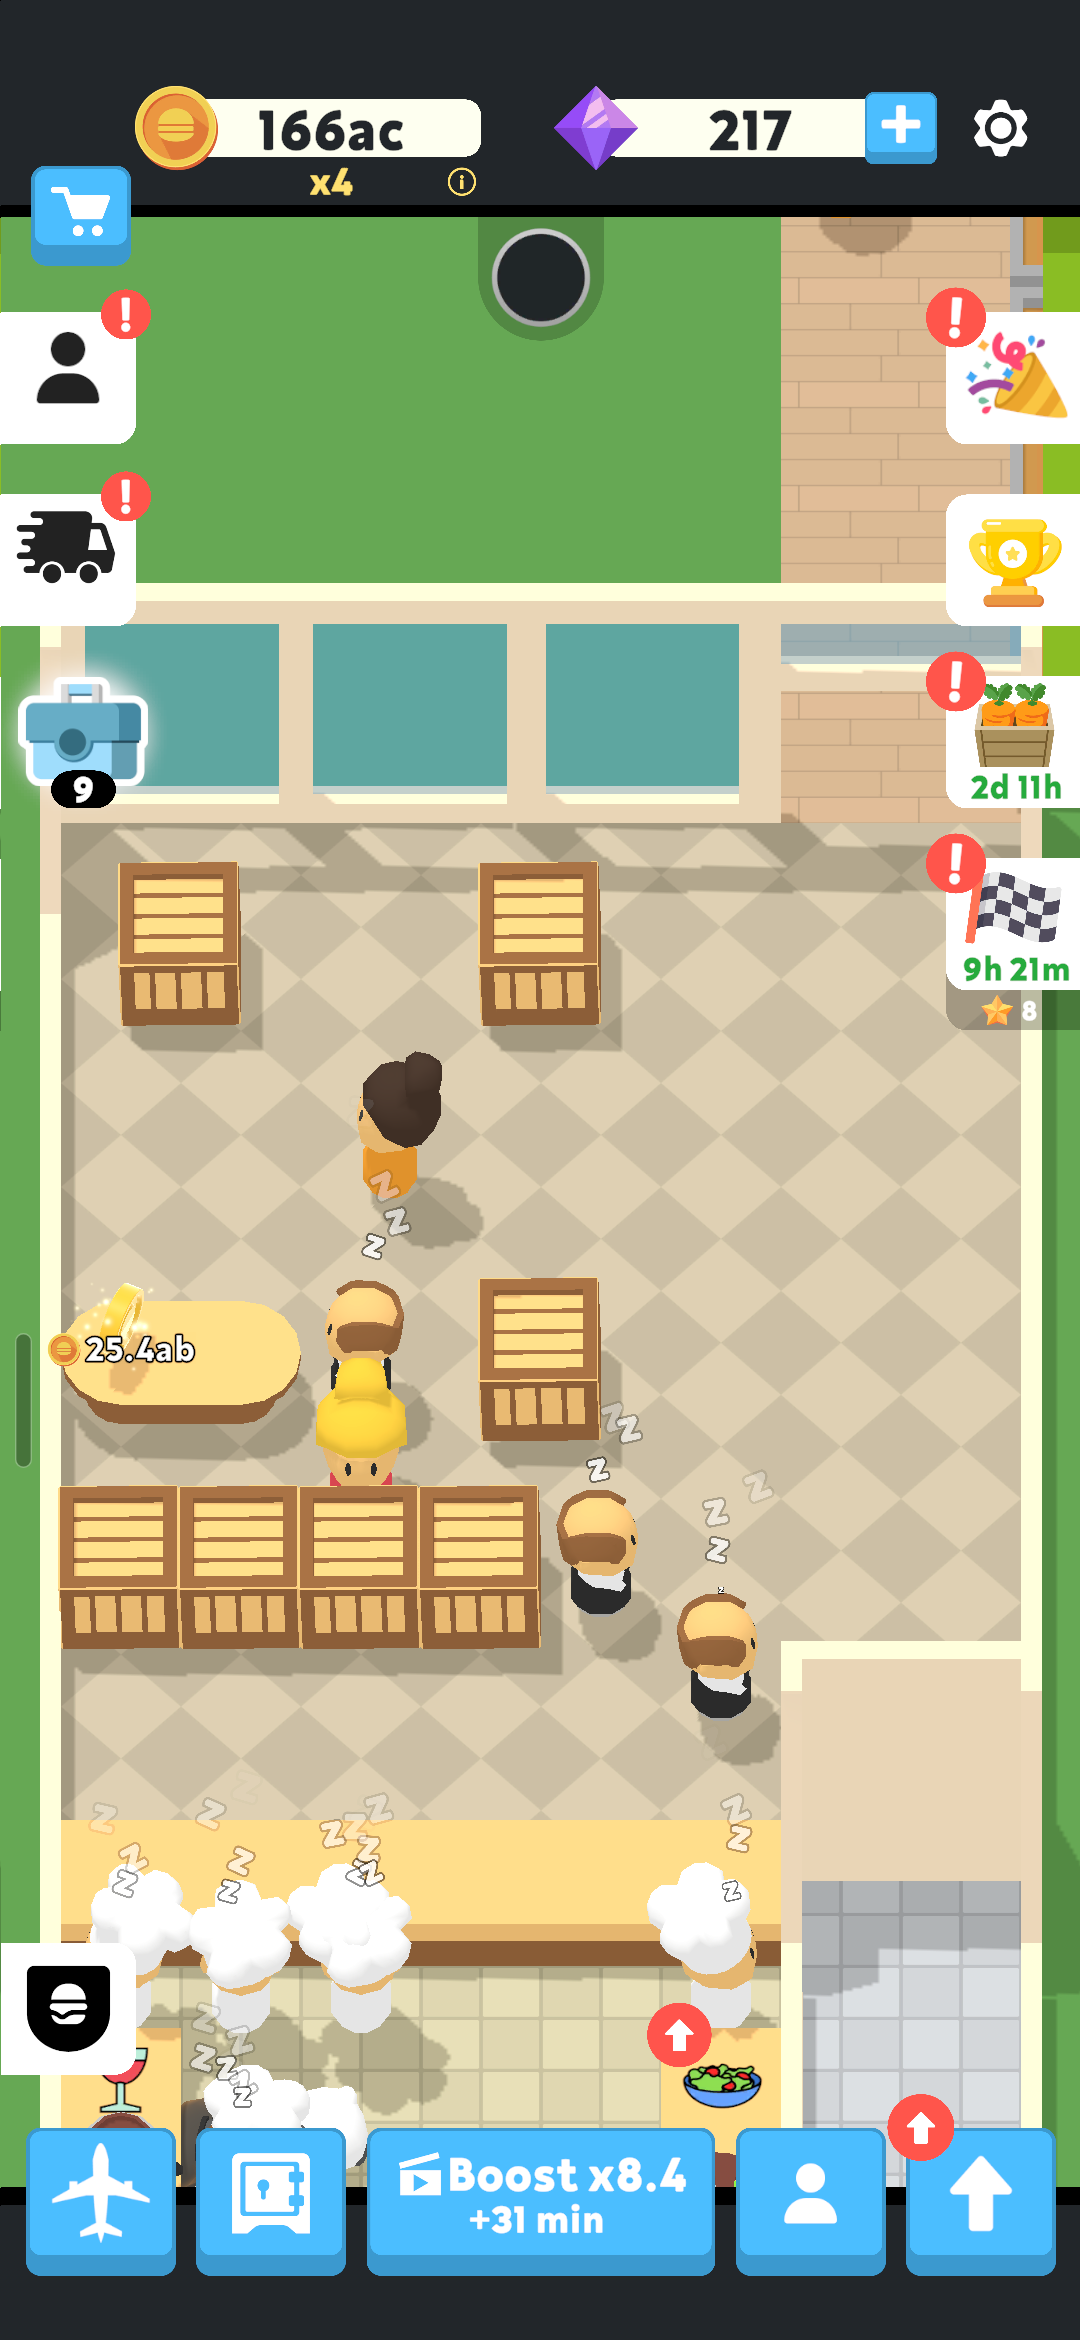
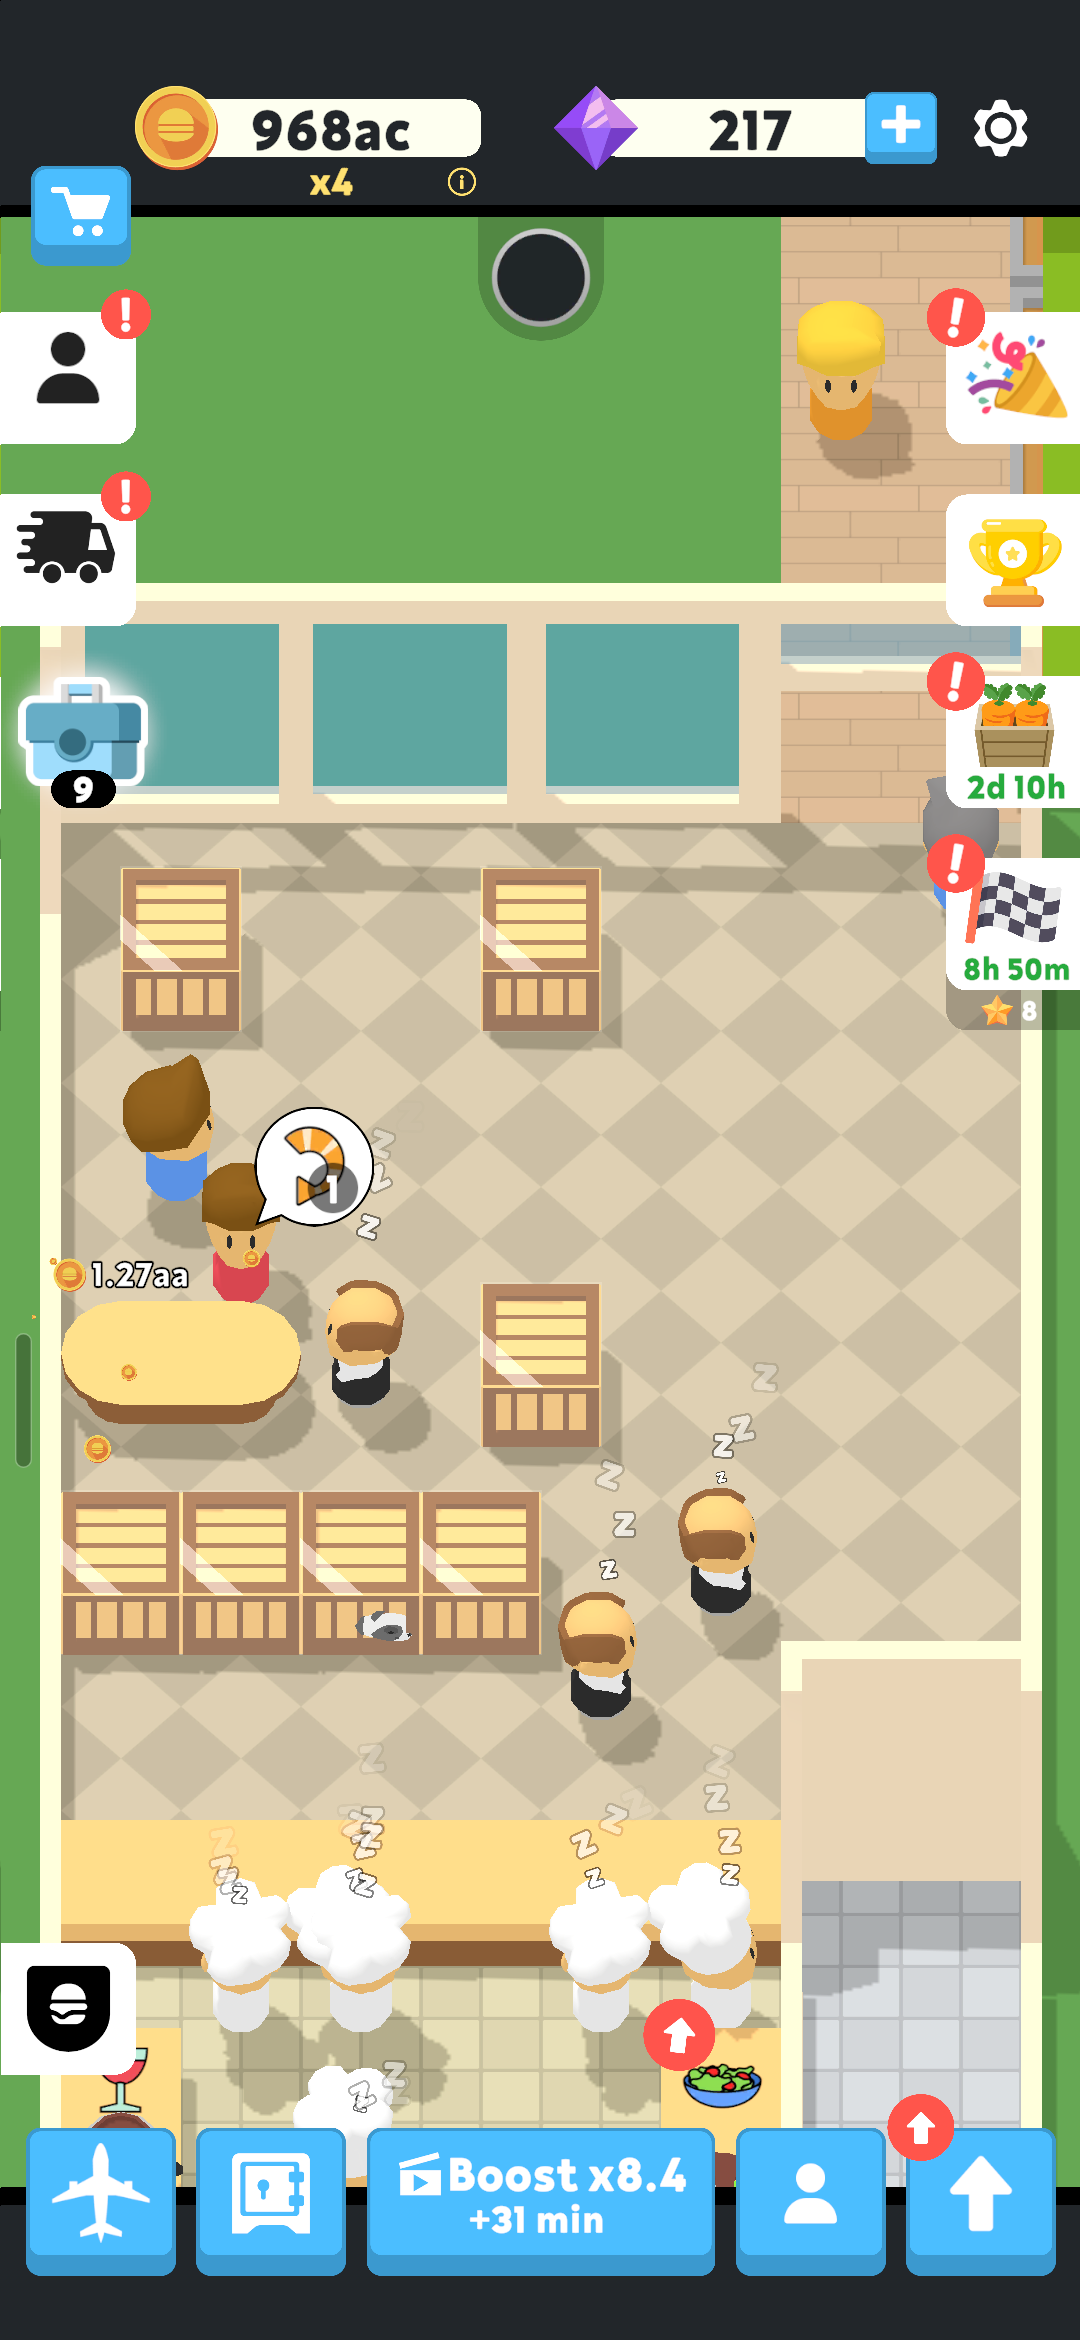
Try blur

diff --git a/modules/ImageProcess.py b/modules/ImageProcess.py
@@ -75,6 +75,11 @@ def find_points_match_template(
             return False if check else []
         
         w, h = template.shape[1], template.shape[0]
+
+        # Blur Gaussian
+        #kernel_size = (3, 3) 
+        #img = cv2.GaussianBlur(img, kernel_size, sigmaX=0)
+        #template = cv2.GaussianBlur(template, kernel_size, sigmaX=0)
         
         # Perform template matching
         res = cv2.matchTemplate(img, template, cv2.TM_CCOEFF_NORMED)
@@ -86,16 +91,26 @@ def find_points_match_template(
         if check:
             return len(loc[0]) > 0
         
+        img2 = img.copy()
         # Calculate center points
         points = []
         for pt in zip(*loc[::-1]):
             center_x = pt[0] + w // 2
             center_y = pt[1] + h // 2
             points.append((center_x, center_y))
-        
+            cv2.rectangle(img, (center_x-50, center_y-50), (center_x+50, center_y+50), (0, 255, 0), 1)
+
+        cv2.imwrite("test.png", img)
         # Cluster nearby points
         if len(points) > 0:
+            print(len(points))
             points = clustering_centers(points)
+            print(len(points))
+
+        for p in points:
+            cv2.rectangle(img2, (p[0]-50, p[1]-50), (p[0]+50, p[1]+50), (0, 255, 0), 1)
+        
+        cv2.imwrite("test1.png", img2)
         
         return points
     

diff --git a/auto.py b/auto.py
@@ -2,6 +2,9 @@
 from modules.GameAuto import GameAuto
 from modules.ADB import ADBController
 from modules.GameDetector import GameDetector
+from modules.ImageProcess import find_points_match_template
+import cv2
+
 #scrcpy -S --window-title "eatventure_screen" --max-fps 30
 
 if __name__ == '__main__':
@@ -10,13 +13,17 @@ if __name__ == '__main__':
     #device.connect()
     #device.take_screenshot()
     #device.crop_swipe_max()
-    #device.startAuto()
+    #device.startAuto() 
 
     adb = ADBController()
 
-    adb.connect()
+    #adb.connect()
+    #adb.save_screenshot()
+    img = cv2.imread("screenshot.png", 0)  
+    template = cv2.imread("templates/boxes/box5.png", 0)
 
-    adb.save_screenshot()
+    find_points_match_template(img, template)
+    #adb.save_screenshot()   
     #adb.crop_screen((10, 270, 90, 300))
 
 

diff --git a/modules/GameDetector.py b/modules/GameDetector.py
@@ -128,7 +128,7 @@ class GameDetector:
                 return []
             
             if len(points) > 0:
-                return points#return [(x, y) for x, y in points if self._check_valid_points(x, y)]
+                return [(x, y+20) for x, y in points if self._check_valid_points(x, y+20)]
 
         return []
 

diff --git a/modules/Constants.py b/modules/Constants.py
@@ -65,11 +65,6 @@ class TemplateConfig:
         "boxes_dir": "templates/boxes",
     }
     
-    THRESHOLDS = {
-        "default": 0.8,
-        "coin_shop": 0.9,
-    }
-    
     CLICK_RETRY_COUNT = 10  # Times to click shop elements
 
     @classmethod
